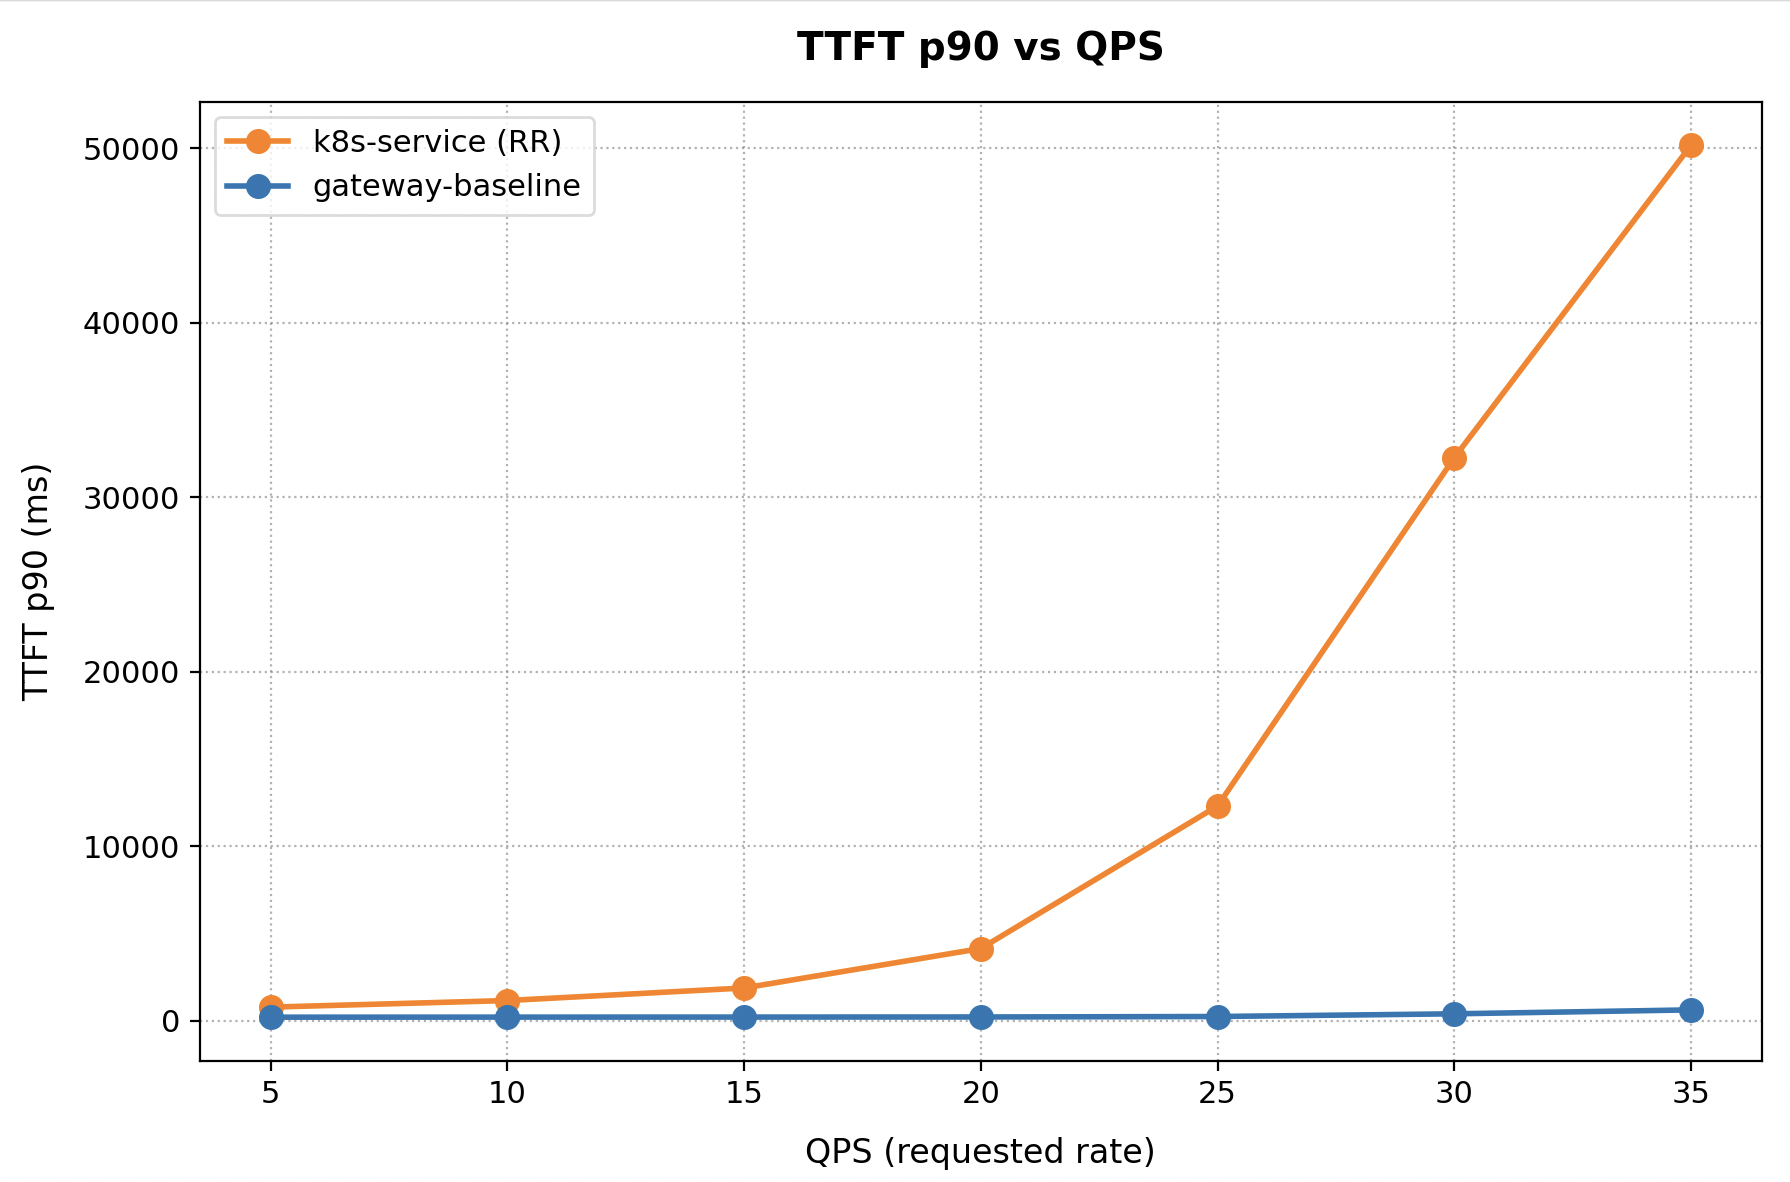
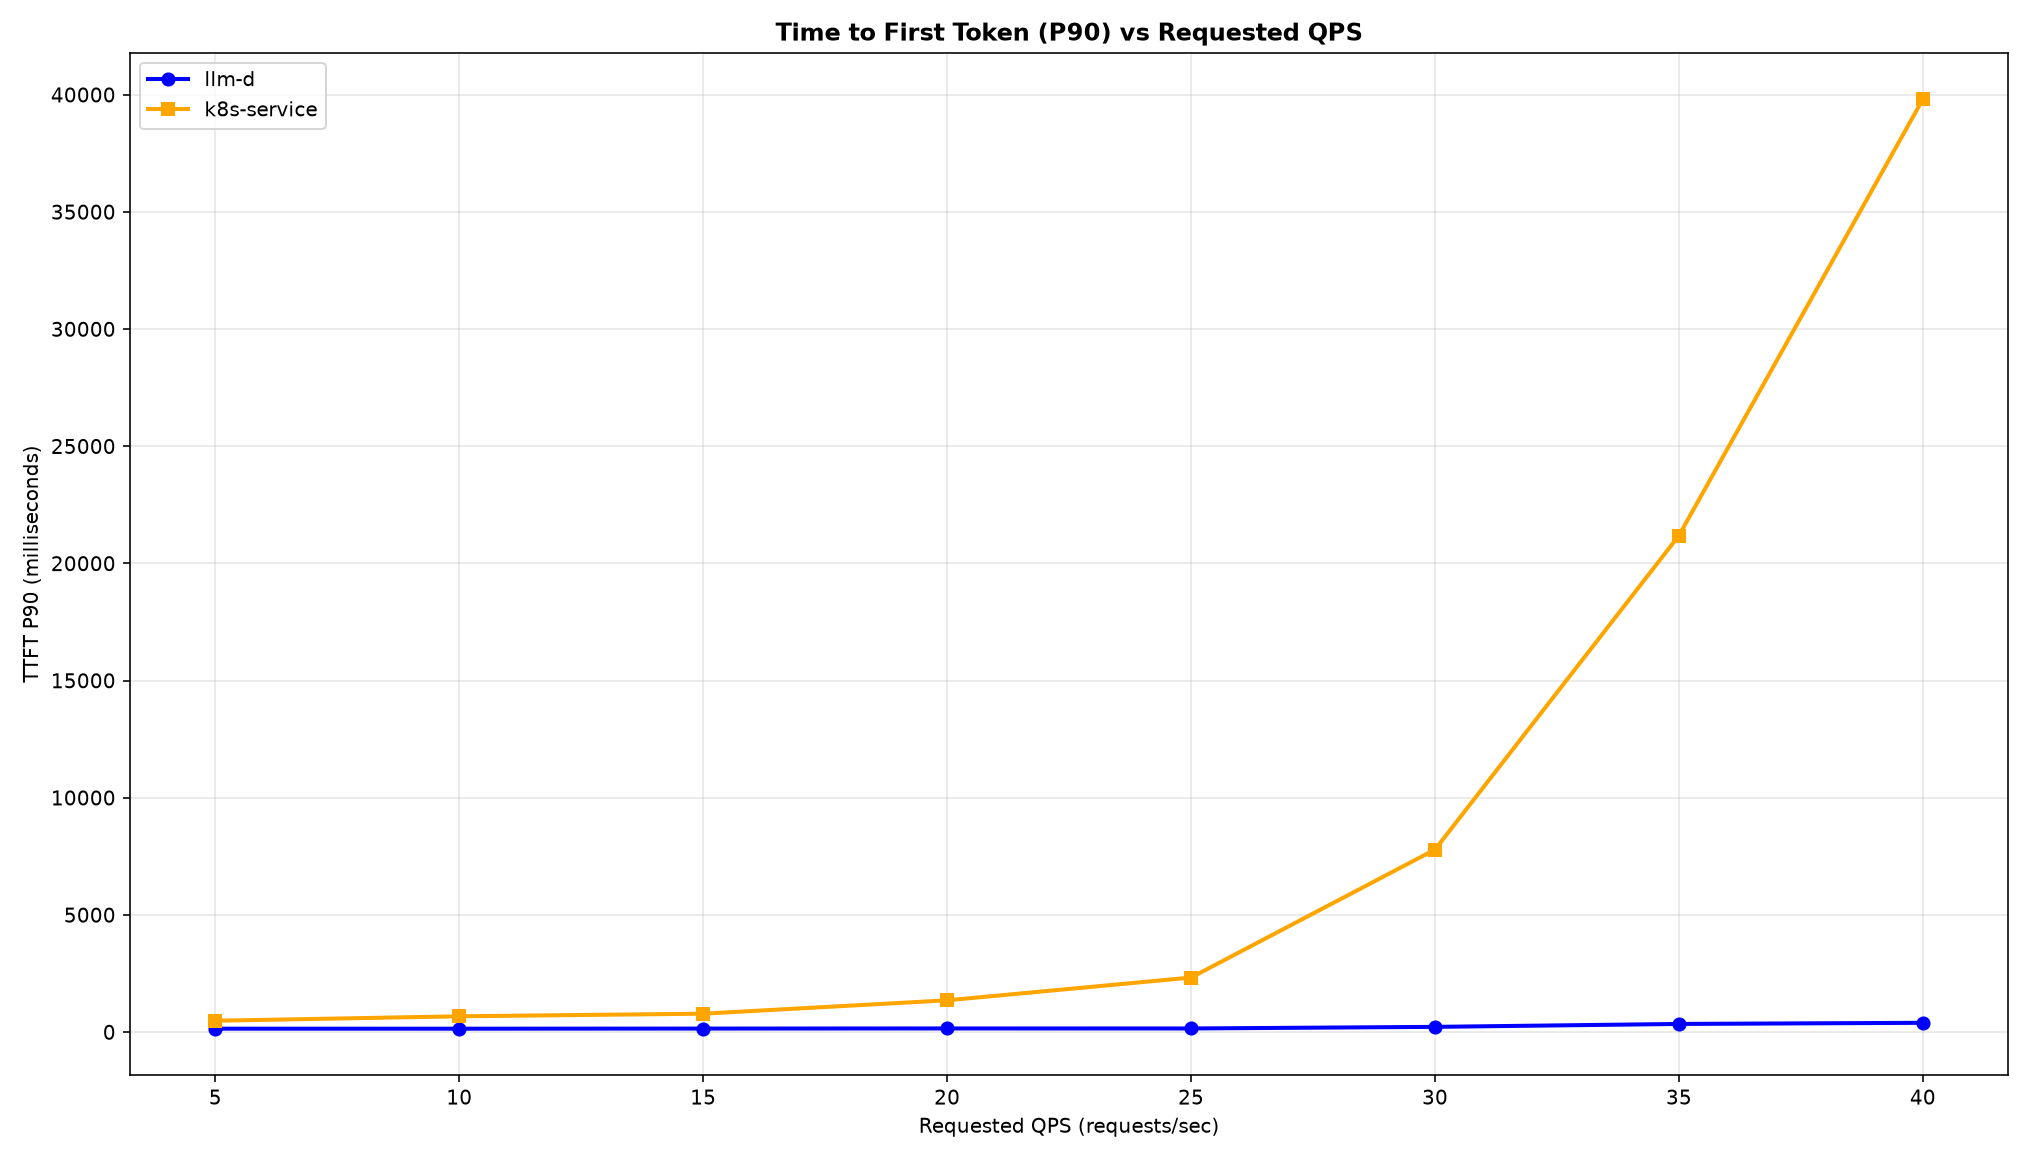
multimodal-serving: adopt token-based routing, refresh benchmark report (#2081)
Converge the multimodal-serving router configs on the reference
token-based stack (prefix-cache-affinity-filter + token-load-scorer),
matching optimized-baseline and agentic-serving:

- aggregation: affinity filter + token-load-scorer on the single pool,
  keeping the multimodal token-producer (image->token estimation) the
  scorer needs for image inputs.
- e-pd: the colocated prefill+decode profile is routed like a prefill
  pool (affinity + token-load, not active-request); token-producer
  added. Encode unchanged.
- e-p-d: prefill on affinity + token-load; the pure decode profile
  scores on active-request only (decode is bound by concurrent
  requests, not prefill throughput). Encode unchanged.

Regenerate the aggregation benchmark on the new stack with a fresh
same-fleet k8s Service baseline (16xH200, harness v0.7.0), reporting
median (p50) latency alongside p90.

Fixes #2069

diff --git a/guides/multimodal-serving/aggregation/README.md b/guides/multimodal-serving/aggregation/README.md
@@ -2,9 +2,9 @@
 
 This guide deploys the recommended [configuration](https://github.com/llm-d/llm-d-router/blob/main/docs/architecture.md) for multimodal vLLM deployments, reducing tail latency and increasing throughput through load-aware and prefix-cache aware balancing.
 
-The multimodal-optimized-baseline defaults to two main routing criteria:
-* **Prefix-cache aware:** Scores candidate endpoints by estimating multimodal prompt prefix cache reuse (e.g., matching text + image hashes) on each model server.
-* **Load-aware:** Scores candidate endpoints based on queue depth and kv-cache utilization to prevent server bottlenecks.
+The multimodal-optimized-baseline routes with the same token-based stack as the [optimized-baseline](../../optimized-baseline) reference:
+* **Prefix-cache aware:** The `prefix-cache-affinity-filter` selects the endpoint set by estimating multimodal prompt prefix cache reuse (matching text + image content hashes) on each model server.
+* **Token-load aware:** The `token-load-scorer` picks within the set on queued prefill token load. The multimodal `token-producer` feeds it per-request token counts, estimating each image's contribution from its resolution — image inputs have no text length to read.
 
 ---
 
@@ -206,29 +206,45 @@ kubectl delete namespace ${NAMESPACE}
 
 ## Benchmarking Report
 
-The benchmark runs on 16 × H200 GPUs, distributed across 8 model servers (2 H200s per server with TP=2).
+The benchmark runs on 16 × H200 GPUs, distributed across 8 model servers (2 H200s per server with TP=2), driven by the shared-prefix multimodal workload (3 × 720p images + ~1.3K text tokens per request, 300-token completions, 600 prefix groups of 5 prompts, constant-rate ladder 5 → 40 req/s, `llm-d-benchmark` harness v0.7.0). Numbers below were measured with the token-based routing stack this guide now ships; both configurations ran back-to-back on the identical fleet.
 
 ### Comparing llm-d Routing to a Simple Kubernetes Service
 
-Graphs below compare optimized-baseline routing to a stock Kubernetes Service that round-robins requests across the same 8 vLLM pods (no EPP, no scoring).
+Graphs below compare multimodal-optimized-baseline routing to a stock Kubernetes Service that round-robins requests across the same 8 vLLM pods (no EPP, no scoring).
 
 <img src="benchmark-results/throughput_vs_qps.png" width="900" alt="Throughput vs QPS">
 <img src="benchmark-results/latency_vs_qps.png" width="900" alt="Latency vs QPS">
 <img src="benchmark-results/ttft_p90_vs_qps.png" width="900" alt="TTFT p90 vs QPS">
+
+llm-d holds **sub-second TTFT p90 across the entire ladder** (0.15–0.40 s) while the plain Service climbs into unbounded queueing from ~25 req/s (p90 2.3 s → 39.8 s). The affinity filter pins each prefix group's text+image blocks to the pod that already holds them, so repeat traffic prefills almost nothing: throughput keeps scaling with offered load to **11,128 tok/s at rate 40 (+44% over the Service's 7,712)**, median TTFT stays ≤155 ms at every rate (**~125× lower** at the top of the ladder), and the whole run completed with **2 failed requests versus 27**.
+
+> [!IMPORTANT]
+> Two `prefix-cache-affinity-filter` parameters are tuned for multimodal traffic, with the rationale in the
+> values file (the `token-producer` image `factor: 1024` is count-correct for Qwen3-VL — one visual token per
+> 32×32-pixel region, measured against the served model):
+> - `affinityThreshold: 0.6` — a multimodal request's *cacheable* fraction is structurally lower than text:
+>   the unique question is never a cache hit, so this workload's best possible prefix match is ~70% of the
+>   prompt — below the plugin's 0.8 default, which would leave affinity permanently disengaged. Set the
+>   threshold below your traffic's maximum cacheable fraction.
+> - `maxTTFTPenaltyMs: 36000` (2× default) — token counts price an image token like a text token, but
+>   vision-encoder time makes image-heavy prefill slower per token than the text-calibrated
+>   `peakPrefillThroughput` implies, so the filter's predicted-TTFT runs light of wall-clock; doubling the
+>   gate restores the intended pinning depth. Reduce toward the default for text-dominant traffic.
 
 <details>
 <summary><b><i>Click</i></b> to view the per-rate breakdown across the full ladder</summary>
 
 Output tokens/sec — higher is better; TTFT in seconds — lower is better.
 
-| Rate | k8s Output | llm-d Output | k8s TTFT mean | llm-d TTFT mean | k8s TTFT p90 | llm-d TTFT p90 |
-|-----:|-----------:| -----------: | ------------: | --------------: | -----------: | -------------: |
-|    5 |  1,405.16  |   1,425.62   |     0.532     |      0.194      |   777.100    |    201.200     |
-|   10 |  2,792.99  |   2,844.20   |     0.678     |      0.164      | 1,154.900    |    204.700     |
-|   15 |  4,094.10  |   4,256.97   |     0.962     |      0.158      | 1,874.800    |    207.400     |
-|   20 |  5,275.50  |   5,636.65   |     1.962     |      0.158      | 4,136.900    |    212.800     |
-|   25 |  5,730.53  |   7,014.95   |     4.924     |      0.168      |12,305.800    |    239.500     |
-|   30 |  6,045.01  |   8,367.86   |    14.448     |      0.229      |32,267.500    |    394.000     |
-|   35 |  6,024.66  |   7,577.50   |    24.970     |      0.899      |50,178.200    |    618.900     |
+| Rate | k8s Output | llm-d Output | k8s TTFT p50 | llm-d TTFT p50 | k8s TTFT p90 | llm-d TTFT p90 |
+|-----:|-----------:| -----------: | -----------: | -------------: | -----------: | -------------: |
+|    5 |   1,408    |    1,421     |    0.401     |     0.133      |    0.487     |     0.148      |
+|   10 |   2,794    |    2,836     |    0.425     |     0.078      |    0.676     |     0.147      |
+|   15 |   4,241    |    4,259     |    0.420     |     0.079      |    0.788     |     0.153      |
+|   20 |   5,535    |    5,634     |    0.501     |     0.080      |    1.358     |     0.158      |
+|   25 |   6,782    |    7,046     |    0.849     |     0.081      |    2.330     |     0.157      |
+|   30 |   7,307    |    8,444     |    1.777     |     0.083      |    7.792     |     0.225      |
+|   35 |   7,272    |    9,782     |   11.060     |     0.153      |   21.192     |     0.350      |
+|   40 |   7,712    |   11,128     |   19.245     |     0.155      |   39.813     |     0.399      |
 
 </details>

diff --git a/guides/recipes/router/calibration/configuration-matrix.md b/guides/recipes/router/calibration/configuration-matrix.md
@@ -22,6 +22,7 @@ rows because the serving engine changes prefill throughput.
 | Overlay path | Accelerator · engine | Version | TP | Model (as shipped) | `peakPrefillThroughput` (tok/s) |
 |---|---|---|---|---|---|
 | `gpu/vllm`         | NVIDIA H100 80 GB · vLLM   | v0.23.0              | 2 | Qwen3-32B               | **15928** |
+| `gpu/vllm` (multimodal-serving) | NVIDIA H200 141 GB · vLLM | v0.23.0    | 2 | Qwen3-VL-32B-Instruct   | **15751** |
 | `gpu/vllm/gpt-oss` | NVIDIA H100 80 GB · vLLM   | v0.22.0              | 1 | gpt-oss-120B            | **39065** |
 | `gpu/sglang`       | NVIDIA H100 80 GB · SGLang | v0.5.13.post1        | 2 | Qwen3-32B               | **30720** |
 | `amd/vllm`    | AMD GPU · vLLM             | rocm v0.7.0          | 2 | Qwen3-32B               | 15928 ‡ |
